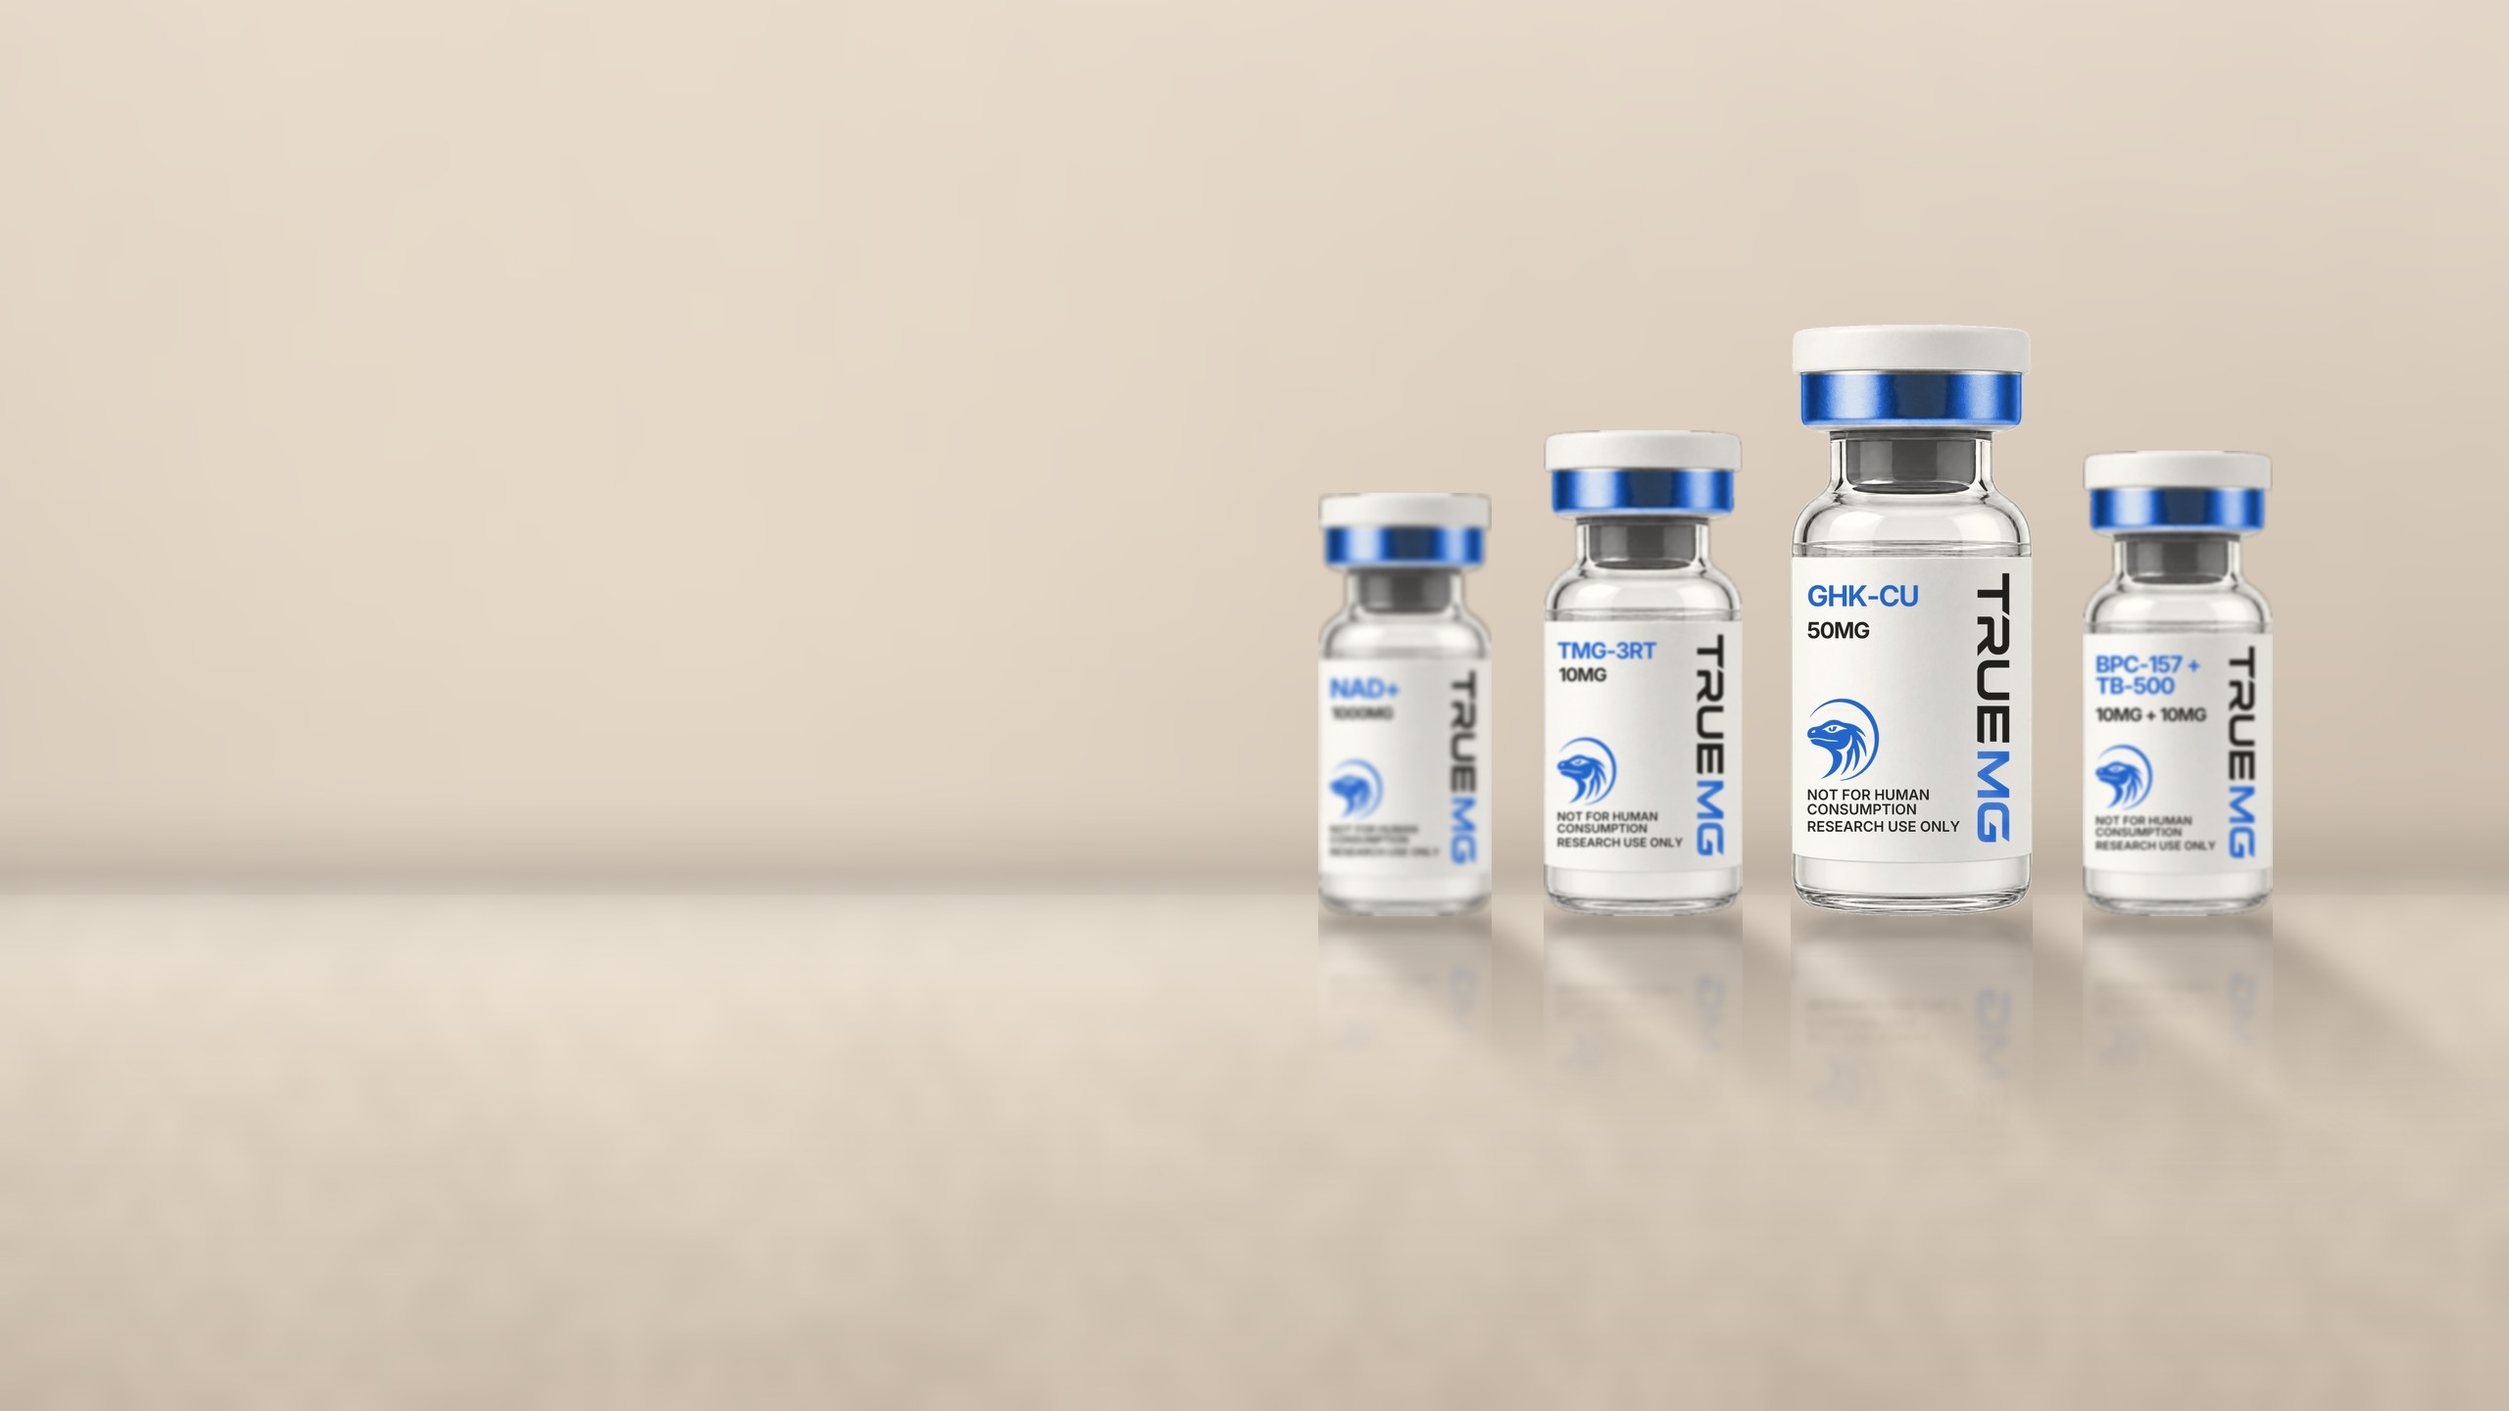
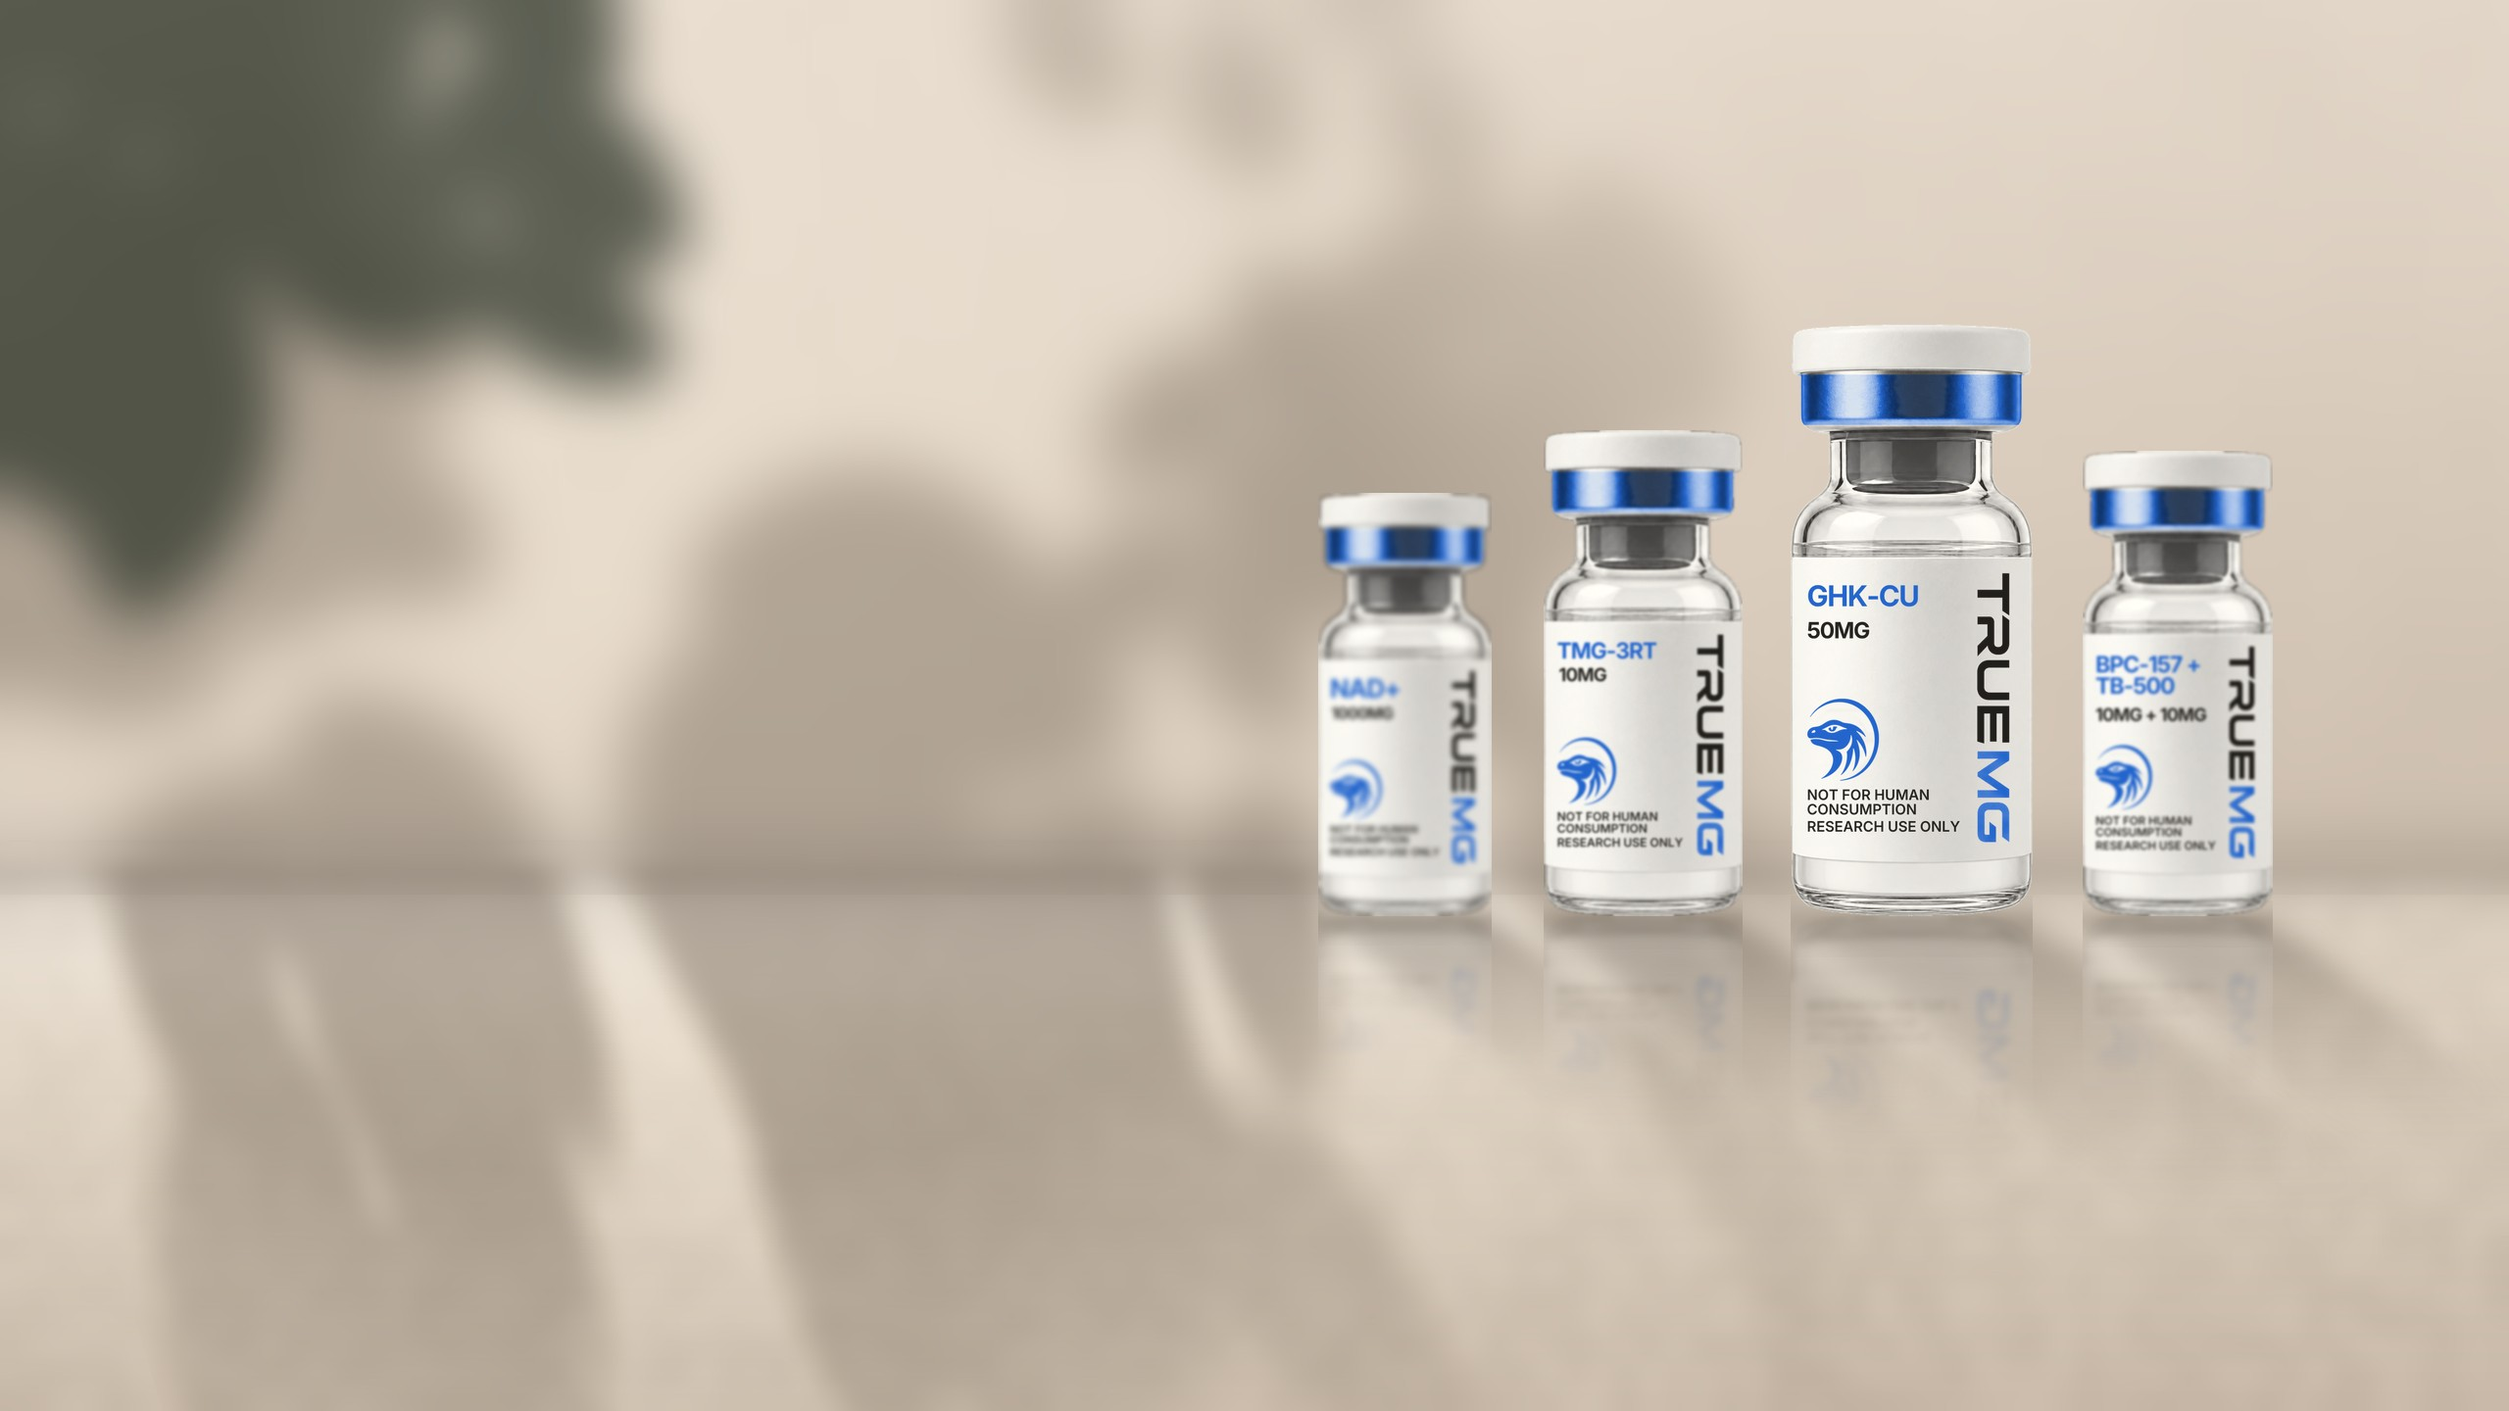
Put the vials in a room with a plant in it
The warm-stone scene fixed the bottles floating on a gradient, but a bare
counter is not a spa. Three additions, one of which survived:

  * leaf shadows cast across the wall and the stone. This is the strongest
    cue in the frame and the only one that is pure light rather than a drawn
    object, which is why it works. Built from real leaf polygons (pointed at
    both ends, clustered on stems) rather than thresholded noise: at this
    blur an ellipse is indistinguishable from a stain, and the first attempt
    looked exactly like one. Sampled twice, because the wall and the stone
    are different planes — on the stone the pattern compresses towards the
    horizon and shears away from the light.
  * leaves in front of the CAMERA, top left, out of focus. Costs a corner,
    buys the depth cue: something soft in the near foreground reads as a
    photograph of a room, a clean rectangle reads as a render.
  * two pebbles on the stone. Deleted. They looked like Tic Tacs, which is
    the failure mode for anything procedurally drawn with a recognisable
    silhouette and no texture to carry it. Light has no silhouette, which is
    why the shadows work and the pebbles did not.

Also fixes ndarray.ptp, gone in numpy 2, and gives the square crop its own
bottle spacing — the hero's fractional positions bunch at 1600px and NAD+
disappeared behind TMG-3RT.

Claude-Session: https://claude.ai/code/session_01GVck48CzMY6cqm4QCmkhM1

diff --git a/truemg/assets/web/scene.py b/truemg/assets/web/scene.py
@@ -62,6 +62,91 @@ def noise(w, h, scale, seed):
     return ndimage.gaussian_filter(big, scale * 0.35)
 
 
+def leaf(d, cx, cy, length, width, angle, fill):
+    """One leaf: a pointed oval, drawn as a polygon.
+
+    Pointed at both ends, widest a little past the middle. The two cusps are
+    what make it read as a leaf rather than a blob — an ellipse at this blur
+    is indistinguishable from noise, which is exactly what the first attempt
+    at this scene produced.
+    """
+    ca, sa = math.cos(angle), math.sin(angle)
+    pts = []
+    for side in (1, -1):
+        rng_t = np.linspace(0, 1, 22)[::side]
+        for t in rng_t:
+            w = math.sin(math.pi * t) ** 0.62 * width * side
+            u, v = (t - 0.5) * length, w
+            pts.append((cx + u * ca - v * sa, cy + u * sa + v * ca))
+    d.polygon(pts, fill=fill)
+
+
+def sprig(d, ox, oy, span, scale, angle, fill, rng, leaves=7):
+    """A stem with leaves alternating off it. Clusters read as a plant; lone
+    leaves read as litter."""
+    for i in range(leaves):
+        t = (i + 1) / (leaves + 1)
+        side = 1 if i % 2 else -1
+        px = ox + math.cos(angle) * span * t
+        py = oy + math.sin(angle) * span * t
+        la = angle + side * rng.uniform(0.55, 1.05)
+        ln = scale * rng.uniform(0.72, 1.15) * (1.15 - 0.45 * t)
+        leaf(d, px + math.cos(la) * ln * 0.5, py + math.sin(la) * ln * 0.5,
+             ln, ln * rng.uniform(0.26, 0.34), la, fill)
+
+
+def gobo(W, H, hz, seed=23):
+    """Light coming through leaves — the single strongest cue in the frame.
+
+    Not an object: the absence of light in leaf-shaped patches. Built once at
+    full size, then resampled twice, because the wall and the stone are two
+    different planes. On the wall the pattern is seen more or less head on. On
+    the stone it is a floor seen at a grazing angle, so it compresses towards
+    the horizon and shears away from the light. Skipping that second sampling
+    is what made the first version read as a stain: the same pattern laid flat
+    over both planes has no geometry in it, and the eye reads the absence.
+    """
+    rng = np.random.default_rng(seed)
+    m = Image.new("L", (W, H), 255)
+    d = ImageDraw.Draw(m)
+    for _ in range(13):                                   # the canopy
+        ox = rng.uniform(-0.15, 0.95) * W
+        oy = rng.uniform(-0.25, 0.85) * H
+        sprig(d, ox, oy, rng.uniform(0.16, 0.34) * W, rng.uniform(0.07, 0.13) * W,
+              rng.uniform(-0.5, 1.9), 0, rng, leaves=rng.integers(5, 9))
+    g = np.asarray(m.filter(ImageFilter.GaussianBlur(W * 0.0055))).astype(float) / 255.0
+
+    out = np.empty_like(g)
+    out[:hz] = g[:hz]                                     # the wall, head on
+    yy = np.arange(hz, H)
+    # the stone: compressed towards the horizon, sheared away from the light
+    src_y = np.clip(hz + (yy - hz) * 0.42, 0, H - 1).astype(int)
+    shift = ((yy - hz) * 0.30).astype(int)
+    xx = np.arange(W)
+    for i, y in enumerate(yy):
+        out[y] = g[src_y[i]][(xx - shift[i]) % W]
+    return out
+
+
+def canopy(W, H, seed=41):
+    """Leaves in front of the camera, not in front of the light.
+
+    A frond entering top-left, close enough to be well outside the focal
+    plane. It costs one corner of the frame and buys the whole depth cue: a
+    photograph with something soft and dark in the near foreground reads as
+    taken through a room, and a clean rectangle reads as rendered.
+    """
+    rng = np.random.default_rng(seed)
+    m = Image.new("L", (W, H), 0)
+    d = ImageDraw.Draw(m)
+    for ox, oy, span, sc, ang, n in (
+            (-0.08, -0.10, 0.30, 0.17, 0.75, 7),
+            (-0.02, -0.16, 0.26, 0.14, 1.15, 6),
+            (0.16, -0.14, 0.22, 0.12, 1.45, 5)):
+        sprig(d, ox * W, oy * H, span * W, sc * W, ang, 255, rng, leaves=n)
+    return m.filter(ImageFilter.GaussianBlur(W * 0.011))
+
+
 def room(W, H):
     """Wall behind, stone in front, lit from one side."""
     hz = int(H * HORIZON)
@@ -106,6 +191,15 @@ def room(W, H):
     # and a wider ambient darkening just under it, where light does not reach
     tuck = np.exp(-((yy - hz - H * 0.012) ** 2) / (2 * (H * 0.030) ** 2)) * (yy > hz)
     a += (np.array(SHADOW, float) - a) * (tuck * 0.12)[..., None]
+
+    # leaf shadows on the wall and the stone. Strongest where the light is,
+    # because that is the only place there is light to interrupt.
+    g = gobo(W, H, hz)
+    lit = np.clip(pool * 1.9, 0, 1)                   # only where there is light to block
+    a += (np.array(SHADOW, float) - a) * ((1 - g) * lit * 0.42)[..., None]
+    # and the gaps between the leaves are brighter than the open wall would be,
+    # because that is what a hard source behind foliage does
+    a += (255 - a) * (np.clip(g - 0.85, 0, 1) * lit * 0.55)[..., None]
 
     out = Image.fromarray(a.clip(0, 255).astype(np.uint8))
     # the wall is a long way behind the bottles
@@ -213,11 +307,22 @@ CAST = [
 ]
 
 
-def compose(W, H, out):
+# The square crop is narrower, so the same fractional positions bunch the
+# bottles and NAD+ ends up hiding behind TMG-3RT. Its own spacing, wider and
+# a little shorter, so all four read.
+SQUARE_CAST = [
+    ("nad",            .455, .234,  0, 2.6),
+    ("tmg-3rt",        .585, .269,  0, 1.1),
+    ("ghk-cu",         .728, .328,  0, 0.0),
+    ("bpc-157-tb-500", .872, .257,  0, 1.4),
+]
+
+
+def compose(W, H, out, cast=None):
     scene, hz = room(W, H)
     scene = scene.convert("RGBA")
 
-    for name, fx, fh, ang, dof in CAST:
+    for name, fx, fh, ang, dof in (cast or CAST):
         v = vial(name)
         h = max(1, int(H * fh))
         v = v.resize((max(1, int(v.width * h / v.height)), h), Image.LANCZOS)
@@ -241,10 +346,18 @@ def compose(W, H, out):
 
         scene.alpha_composite(v, (x, y))
 
+    # the near leaves go on last, because they are in front of the camera and
+    # therefore in front of the bottles too. Unlit, so they are dark and
+    # desaturated rather than green — foreground foliage in a bright room is
+    # almost a silhouette.
+    near = Image.new("RGBA", (W, H), (58, 64, 52, 0))
+    near.putalpha(canopy(W, H).point(lambda q: int(q * 0.80)))
+    scene.alpha_composite(near)
+
     scene.convert("RGB").save(out, quality=90, optimize=True)
     print(f"  {out:28s} {W}x{H}  {os.path.getsize(out) // 1024} KB")
 
 
 if __name__ == "__main__":
     compose(2560, 1440, "scene-hero.jpg")
-    compose(1600, 1400, "scene-square.jpg")
+    compose(1600, 1400, "scene-square.jpg", SQUARE_CAST)

diff --git a/truemg/assets/web/scene_video.py b/truemg/assets/web/scene_video.py
@@ -1,0 +1,133 @@
+"""The warm room, with the sun moving through it.
+
+A still of the vials on stone fixed the bigger problem — they were floating on
+a gradient with no light and nowhere to be. But a still is still a still, and
+the thing that sells a room is time passing in it.
+
+So this moves the LIGHT, not the bottles. Over eight seconds the sun tracks a
+little across the frame, the pool on the stone slides with it, and every
+shadow swings and lengthens in step. The bottles themselves barely stir. That
+is the opposite of the first hero loop, where four cut-outs bobbed against a
+flat field and the result read as a screensaver: motion that nothing in the
+scene accounts for looks fake, and motion with a cause looks filmed.
+
+Three things carry it:
+
+  * the shadows are recomputed every frame from the light's current angle, so
+    they swing and stretch rather than sliding around rigidly. This is most of
+    the render cost and all of the effect.
+  * a foreground bottle, very close and far out of focus, that the camera
+    drifts past. Nothing says depth like something passing in front.
+  * a slow lateral parallax, each bottle moving by its distance. Pixels, not
+    inches — enough to feel, not enough to notice.
+
+Everything is a sine over the full clip, so the last frame lands exactly where
+the first began.
+
+Run from this directory. Needs ffmpeg.
+"""
+import math
+import os
+import shutil
+import subprocess
+import tempfile
+
+import numpy as np
+from PIL import Image, ImageFilter
+
+import scene as S
+
+FPS, SECONDS = 24, 8
+FRAMES = os.environ.get("SCENE_FRAMES") or tempfile.mkdtemp(prefix="scene-frames-")
+KEEP = bool(os.environ.get("SCENE_FRAMES"))
+
+# name, centre x, height, defocus, parallax. The last entry is the foreground
+# bottle: huge, soft, half out of frame, there purely to be passed.
+CAST = [
+    ("nad",            .560, .300, 2.6, 0.45),
+    ("tmg-3rt",        .655, .345, 1.1, 0.70),
+    ("ghk-cu",         .762, .420, 0.0, 1.00),
+    ("bpc-157-tb-500", .868, .330, 1.4, 1.30),
+    ("semax",          .205, .620, 9.0, 2.10),
+]
+
+LIGHT_SWING = 0.075      # how far the sun tracks, as a fraction of the width
+
+
+def prep(W, H):
+    out = []
+    for name, fx, fh, dof, para in CAST:
+        v = S.vial(name)
+        h = max(1, int(H * fh))
+        v = v.resize((max(1, int(v.width * h / v.height)), h), Image.LANCZOS)
+        v = S.warm(v)
+        if dof:
+            v = v.filter(ImageFilter.GaussianBlur(dof))
+        out.append((v, fx, h, dof, para))
+    return out
+
+
+def render(W, H, name):
+    print(f"{name}  {W}x{H}")
+    shutil.rmtree(FRAMES, ignore_errors=True)
+    os.makedirs(FRAMES, exist_ok=True)
+    N = FPS * SECONDS
+    parts = prep(W, H)
+    base_light = S.LIGHT_X
+
+    for f in range(N):
+        t = f / N
+        # the sun tracks across and back once per loop
+        S.LIGHT_X = base_light + LIGHT_SWING * math.sin(2 * math.pi * t)
+        room, hz = S.room(W, H)
+        frame = room.convert("RGBA")
+        drift = 7.0 * math.sin(2 * math.pi * t)          # the camera's slow slide
+
+        for v, fx, h, dof, para in parts:
+            cx = int(W * fx + drift * para)
+            base = hz + int(H * 0.035)
+            x, y = cx - v.width // 2, base - v.height
+
+            # the shadow follows the light: further from it, longer and more
+            # raked. This is why the frame reads as lit rather than composited.
+            gap = fx - S.LIGHT_X
+            lean = 1.0 if gap > 0 else -1.0
+            cs, cpad = S.cast_shadow(v, 0.44 + abs(gap) * 0.42,
+                                     lean * (0.85 + abs(gap) * 1.5),
+                                     max(5, int(h * 0.028)))
+            frame.alpha_composite(cs, (x - cpad, base - cpad))
+
+            frame.alpha_composite(S.reflection(v), (x, base))
+            cp, band = S.contact(v, max(5, int(h * 0.022)))
+            frame.alpha_composite(cp, (x, base - band))
+            frame.alpha_composite(v, (x, y))
+
+        frame.convert("RGB").save(f"{FRAMES}/f{f:04d}.png")
+        if f % 24 == 0:
+            print(f"    frame {f}/{N}", flush=True)
+
+    S.LIGHT_X = base_light
+    encode(name)
+
+
+def encode(name):
+    seq = f"{FRAMES}/f%04d.png"
+    common = ["ffmpeg", "-y", "-loglevel", "error", "-framerate", str(FPS), "-i", seq]
+    subprocess.run(common + ["-c:v", "libx264", "-preset", "slow", "-crf", "28",
+                             "-pix_fmt", "yuv420p", "-movflags", "+faststart",
+                             "-an", f"{name}.mp4"], check=True, capture_output=True)
+    subprocess.run(common + ["-c:v", "libvpx-vp9", "-crf", "34", "-b:v", "0",
+                             "-row-mt", "1", "-pix_fmt", "yuv420p",
+                             "-an", f"{name}.webm"], check=True, capture_output=True)
+    Image.open(f"{FRAMES}/f0000.png").convert("RGB").save(
+        f"{name}-poster.jpg", quality=88, optimize=True)
+    for f in (f"{name}.mp4", f"{name}.webm", f"{name}-poster.jpg"):
+        print(f"    {f:26s} {os.path.getsize(f) // 1024} KB")
+
+
+if __name__ == "__main__":
+    render(1920, 1080, "scene-loop")
+    if KEEP:
+        print("  frames kept in", FRAMES)
+    else:
+        shutil.rmtree(FRAMES, ignore_errors=True)
